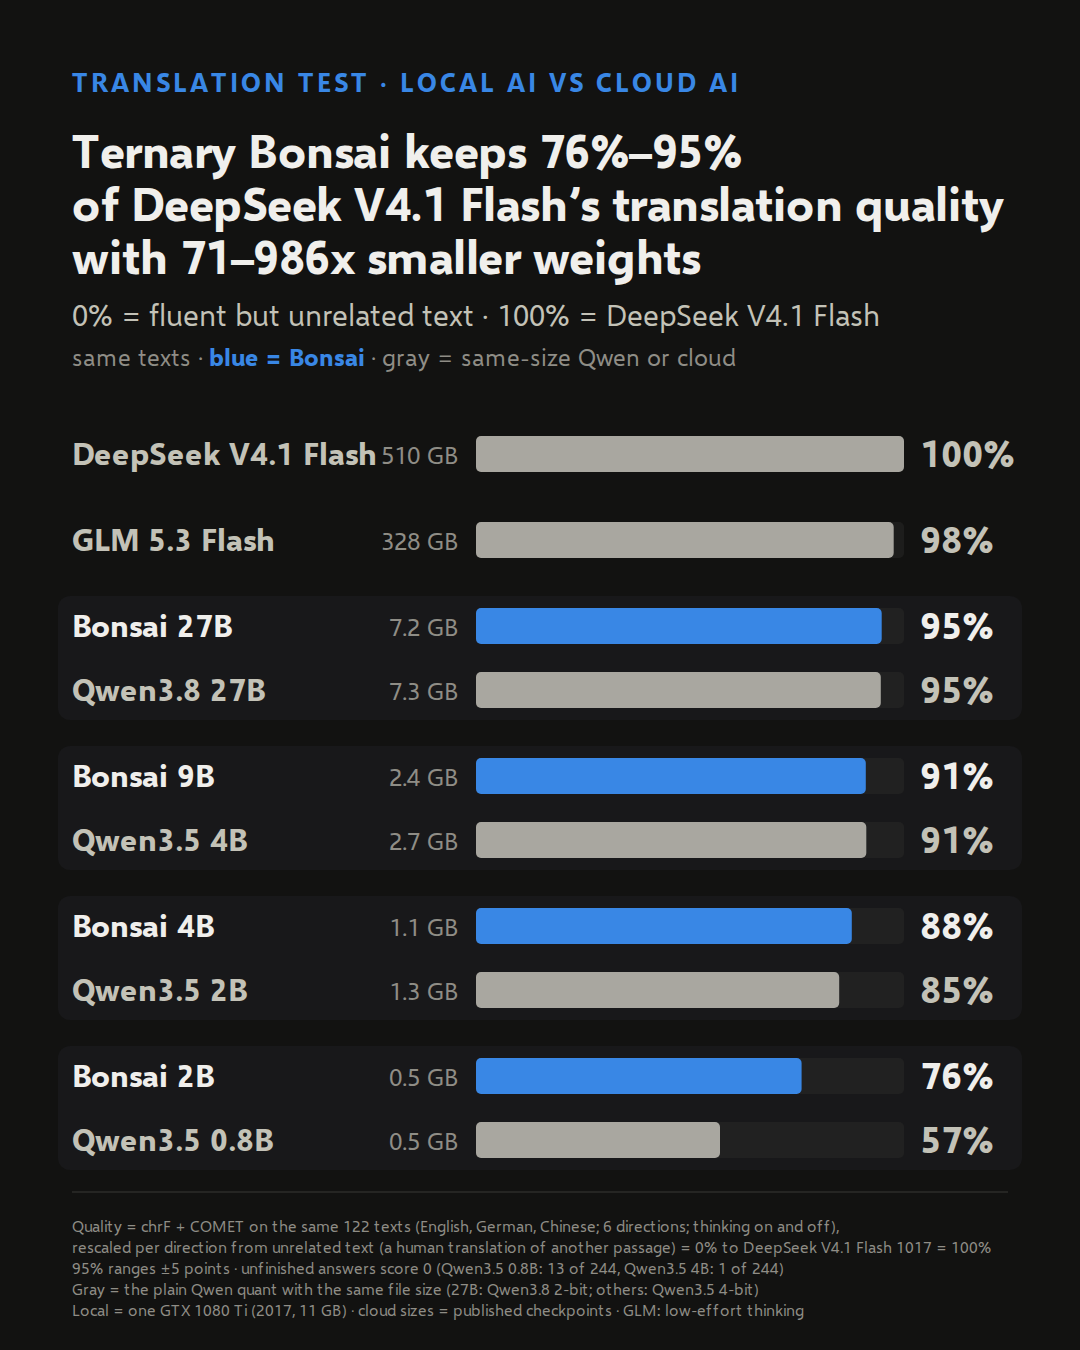
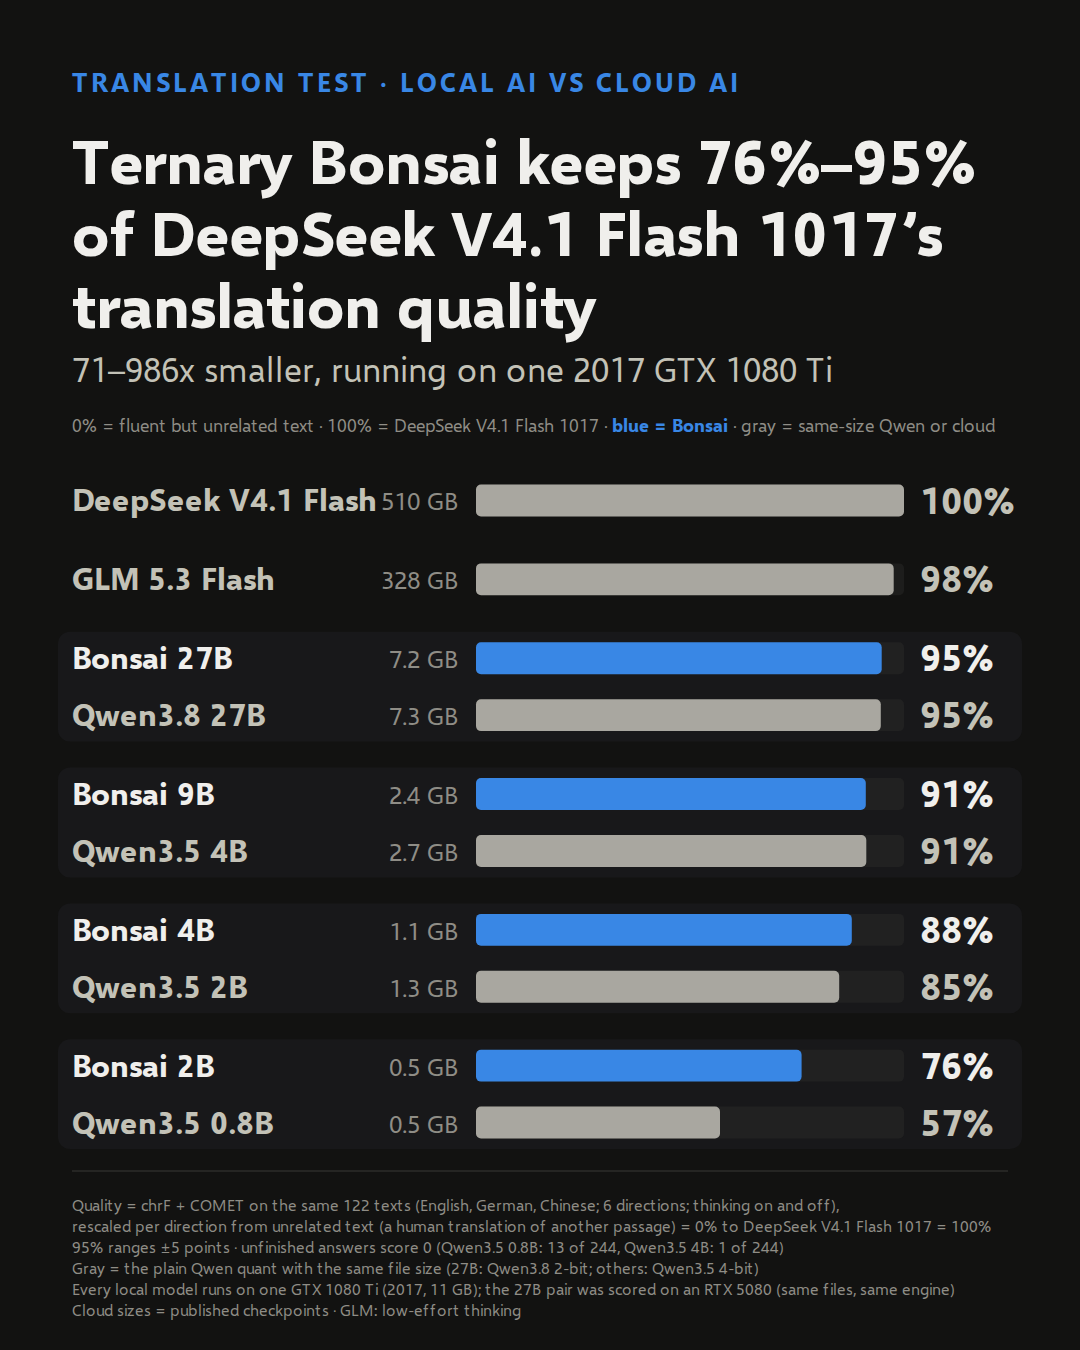
update bonsai2 translation pages

diff --git a/bonsai2-translation/index.html b/bonsai2-translation/index.html
@@ -1,7 +1,7 @@
 <!doctype html>
 <html lang="en"><head><meta charset="utf-8"><meta name="robots" content="noindex, nofollow"><meta name="viewport" content="width=device-width,initial-scale=1">
 <meta name="color-scheme" content="dark">
-<title>Ternary Bonsai keeps 76%–95% of DeepSeek V4.1 Flash’s translation quality with 71–986x smaller weights</title><style>
+<title>Ternary Bonsai keeps 76%–95% of DeepSeek V4.1 Flash 1017’s translation quality, 71–986x smaller, running on one 2017 GTX 1080 Ti</title><style>
 @font-face{font-family:CardSans;src:url(fonts/selawk.ttf) format("truetype");font-weight:100 500}
 @font-face{font-family:CardSans;src:url(fonts/selawkb.ttf) format("truetype");font-weight:600 900}
 html,body{margin:0;background:#0b0b0a;color:#f0efec;font:15px/1.5 system-ui,-apple-system,"Segoe UI",sans-serif}
@@ -17,95 +17,96 @@ svg.card{display:block;width:100%;height:auto;border-radius:14px}
 </style></head>
 <body><main><nav class="nav" aria-label="Report pages"><span aria-current="page">Holistic</span><a href="details.html">Paired differences</a></nav>
 <svg class="card" viewBox="0 0 1080 1350" width="1080" height="1350" xmlns="http://www.w3.org/2000/svg" role="img" aria-labelledby="card-t card-d" font-family="'Segoe UI','CardSans',sans-serif">
-<title id="card-t">Ternary Bonsai keeps 76%–95% of DeepSeek V4.1 Flash’s translation quality with 71–986x smaller weights</title>
+<title id="card-t">Ternary Bonsai keeps 76%–95% of DeepSeek V4.1 Flash 1017’s translation quality, 71–986x smaller, running on one 2017 GTX 1080 Ti</title>
 <desc id="card-d">Translation quality (chrF and COMET) from unrelated text = 0% to DeepSeek V4.1 Flash 1017 (510 GB) = 100% on the same texts, each Bonsai beside the plain Qwen of the same file size: DeepSeek V4.1 Flash 1017 (510 GB) 100%, GLM 5.3 Flash (328 GB) 98% (95% range 97% to 99%), Bonsai 27B (7.2 GB) 95% (95% range 93% to 96%), Qwen3.8 27B (7.3 GB) 95% (95% range 92% to 96%), Bonsai 9B (2.4 GB) 91% (95% range 90% to 93%), Qwen3.5 4B (2.7 GB) 91% (95% range 89% to 93%), Bonsai 4B (1.1 GB) 88% (95% range 86% to 90%), Qwen3.5 2B (1.3 GB) 85% (95% range 83% to 87%), Bonsai 2B (0.5 GB) 76% (95% range 74% to 78%), Qwen3.5 0.8B (0.5 GB) 57% (95% range 52% to 62%).</desc>
 <rect width="1080" height="1350" fill="#121211"/>
 <text x="72" y="92" fill="#3987e5" font-size="26" font-weight="700" letter-spacing="3">TRANSLATION TEST · LOCAL AI VS CLOUD AI</text>
-<text x="72" y="168" fill="#f0efec" font-size="46" font-weight="700" letter-spacing="-0.5">Ternary Bonsai keeps 76%–95%</text>
-<text x="72" y="221" fill="#f0efec" font-size="46" font-weight="700" letter-spacing="-0.5">of DeepSeek V4.1 Flash’s translation quality</text>
-<text x="72" y="274" fill="#f0efec" font-size="46" font-weight="700" letter-spacing="-0.5">with 71–986x smaller weights</text>
-<text x="72" y="326" fill="#c3c2b7" font-size="30">0% = fluent but unrelated text · 100% = DeepSeek V4.1 Flash</text>
-<text x="72" y="366" fill="#8f8d86" font-size="24">same texts · <tspan fill="#3987e5" font-weight="700">blue = Bonsai</tspan> · gray = same-size Qwen or cloud</text>
+<text x="72" y="184" fill="#f0efec" font-size="62" font-weight="700" letter-spacing="-0.5">Ternary Bonsai keeps 76%–95%</text>
+<text x="72" y="256" fill="#f0efec" font-size="62" font-weight="700" letter-spacing="-0.5">of DeepSeek V4.1 Flash 1017’s</text>
+<text x="72" y="328" fill="#f0efec" font-size="62" font-weight="700" letter-spacing="-0.5">translation quality</text>
+<text x="72" y="382" fill="#c3c2b7" font-size="34">71–986x smaller, running on one 2017 GTX 1080 Ti</text>
+<text x="72" y="432" fill="#8f8d86" font-size="18">0% = fluent but unrelated text · 100% = DeepSeek V4.1 Flash 1017 · <tspan fill="#3987e5" font-weight="700">blue = Bonsai</tspan> · gray = same-size Qwen or cloud</text>
 <g><title>DeepSeek V4.1 Flash, 510 GB: the reference (100%)</title>
-<text x="72" y="465.0" fill="#c3c2b7" font-size="31" font-weight="700">DeepSeek V4.1 Flash</text>
-<text x="458" y="464.0" fill="#8f8d86" font-size="25" text-anchor="end">510 GB</text>
-<rect x="476" y="436.1" width="428" height="35.8" rx="5" fill="#2c2c2a" fill-opacity=".45"/>
-<rect x="476" y="436.1" width="428.0" height="35.8" rx="5" fill="#a9a7a0"/>
-<text x="920" y="467.0" fill="#c3c2b7" font-size="37" font-weight="700">100%</text>
+<text x="72" y="511.4" fill="#c3c2b7" font-size="31" font-weight="700">DeepSeek V4.1 Flash</text>
+<text x="458" y="510.4" fill="#8f8d86" font-size="25" text-anchor="end">510 GB</text>
+<rect x="476" y="484.5" width="428" height="31.9" rx="5" fill="#2c2c2a" fill-opacity=".45"/>
+<rect x="476" y="484.5" width="428.0" height="31.9" rx="5" fill="#a9a7a0"/>
+<text x="920" y="513.5" fill="#c3c2b7" font-size="37" font-weight="700">100%</text>
 </g>
 <g><title>GLM 5.3 Flash, 328 GB: 98% of the way from unrelated text to DeepSeek V4.1 Flash 1017 (95% range 97% to 99%)</title>
-<text x="72" y="551.0" fill="#c3c2b7" font-size="31" font-weight="700">GLM 5.3 Flash</text>
-<text x="458" y="550.0" fill="#8f8d86" font-size="25" text-anchor="end">328 GB</text>
-<rect x="476" y="522.1" width="428" height="35.8" rx="5" fill="#2c2c2a" fill-opacity=".45"/>
-<rect x="476" y="522.1" width="417.7" height="35.8" rx="5" fill="#a9a7a0"/>
-<text x="920" y="553.0" fill="#c3c2b7" font-size="37" font-weight="700">98%</text>
+<text x="72" y="590.4" fill="#c3c2b7" font-size="31" font-weight="700">GLM 5.3 Flash</text>
+<text x="458" y="589.4" fill="#8f8d86" font-size="25" text-anchor="end">328 GB</text>
+<rect x="476" y="563.4" width="428" height="31.9" rx="5" fill="#2c2c2a" fill-opacity=".45"/>
+<rect x="476" y="563.4" width="417.7" height="31.9" rx="5" fill="#a9a7a0"/>
+<text x="920" y="592.4" fill="#c3c2b7" font-size="37" font-weight="700">98%</text>
 </g>
-<rect x="58" y="596.0" width="964" height="124.0" rx="12" fill="#18181a"/>
+<rect x="58" y="631.8" width="964" height="109.8" rx="12" fill="#18181a"/>
 <g><title>Bonsai 27B, 7.2 GB: 95% of the way from unrelated text to DeepSeek V4.1 Flash 1017 (95% range 93% to 96%)</title>
-<text x="72" y="637.0" fill="#f0efec" font-size="31" font-weight="700">Bonsai 27B</text>
-<text x="458" y="636.0" fill="#8f8d86" font-size="25" text-anchor="end">7.2 GB</text>
-<rect x="476" y="608.1" width="428" height="35.8" rx="5" fill="#2c2c2a" fill-opacity=".45"/>
-<rect x="476" y="608.1" width="405.7" height="35.8" rx="5" fill="#3987e5"/>
-<text x="920" y="639.0" fill="#f0efec" font-size="37" font-weight="700">95%</text>
+<text x="72" y="669.2" fill="#f0efec" font-size="31" font-weight="700">Bonsai 27B</text>
+<text x="458" y="668.2" fill="#8f8d86" font-size="25" text-anchor="end">7.2 GB</text>
+<rect x="476" y="642.3" width="428" height="31.9" rx="5" fill="#2c2c2a" fill-opacity=".45"/>
+<rect x="476" y="642.3" width="405.7" height="31.9" rx="5" fill="#3987e5"/>
+<text x="920" y="671.2" fill="#f0efec" font-size="37" font-weight="700">95%</text>
 </g>
 <g><title>Qwen3.8 27B, 7.3 GB: 95% of the way from unrelated text to DeepSeek V4.1 Flash 1017 (95% range 92% to 96%)</title>
-<text x="72" y="701.0" fill="#c3c2b7" font-size="31" font-weight="700">Qwen3.8 27B</text>
-<text x="458" y="700.0" fill="#8f8d86" font-size="25" text-anchor="end">7.3 GB</text>
-<rect x="476" y="672.1" width="428" height="35.8" rx="5" fill="#2c2c2a" fill-opacity=".45"/>
-<rect x="476" y="672.1" width="404.8" height="35.8" rx="5" fill="#a9a7a0"/>
-<text x="920" y="703.0" fill="#c3c2b7" font-size="37" font-weight="700">95%</text>
+<text x="72" y="726.1" fill="#c3c2b7" font-size="31" font-weight="700">Qwen3.8 27B</text>
+<text x="458" y="725.1" fill="#8f8d86" font-size="25" text-anchor="end">7.3 GB</text>
+<rect x="476" y="699.2" width="428" height="31.9" rx="5" fill="#2c2c2a" fill-opacity=".45"/>
+<rect x="476" y="699.2" width="404.8" height="31.9" rx="5" fill="#a9a7a0"/>
+<text x="920" y="728.1" fill="#c3c2b7" font-size="37" font-weight="700">95%</text>
 </g>
-<rect x="58" y="746.0" width="964" height="124.0" rx="12" fill="#18181a"/>
+<rect x="58" y="767.6" width="964" height="109.8" rx="12" fill="#18181a"/>
 <g><title>Bonsai 9B, 2.4 GB: 91% of the way from unrelated text to DeepSeek V4.1 Flash 1017 (95% range 90% to 93%)</title>
-<text x="72" y="787.0" fill="#f0efec" font-size="31" font-weight="700">Bonsai 9B</text>
-<text x="458" y="786.0" fill="#8f8d86" font-size="25" text-anchor="end">2.4 GB</text>
-<rect x="476" y="758.1" width="428" height="35.8" rx="5" fill="#2c2c2a" fill-opacity=".45"/>
-<rect x="476" y="758.1" width="389.8" height="35.8" rx="5" fill="#3987e5"/>
-<text x="920" y="789.0" fill="#f0efec" font-size="37" font-weight="700">91%</text>
+<text x="72" y="805.0" fill="#f0efec" font-size="31" font-weight="700">Bonsai 9B</text>
+<text x="458" y="804.0" fill="#8f8d86" font-size="25" text-anchor="end">2.4 GB</text>
+<rect x="476" y="778.1" width="428" height="31.9" rx="5" fill="#2c2c2a" fill-opacity=".45"/>
+<rect x="476" y="778.1" width="389.8" height="31.9" rx="5" fill="#3987e5"/>
+<text x="920" y="807.0" fill="#f0efec" font-size="37" font-weight="700">91%</text>
 </g>
 <g><title>Qwen3.5 4B, 2.7 GB: 91% of the way from unrelated text to DeepSeek V4.1 Flash 1017 (95% range 89% to 93%)</title>
-<text x="72" y="851.0" fill="#c3c2b7" font-size="31" font-weight="700">Qwen3.5 4B</text>
-<text x="458" y="850.0" fill="#8f8d86" font-size="25" text-anchor="end">2.7 GB</text>
-<rect x="476" y="822.1" width="428" height="35.8" rx="5" fill="#2c2c2a" fill-opacity=".45"/>
-<rect x="476" y="822.1" width="390.3" height="35.8" rx="5" fill="#a9a7a0"/>
-<text x="920" y="853.0" fill="#c3c2b7" font-size="37" font-weight="700">91%</text>
+<text x="72" y="861.9" fill="#c3c2b7" font-size="31" font-weight="700">Qwen3.5 4B</text>
+<text x="458" y="860.9" fill="#8f8d86" font-size="25" text-anchor="end">2.7 GB</text>
+<rect x="476" y="835.0" width="428" height="31.9" rx="5" fill="#2c2c2a" fill-opacity=".45"/>
+<rect x="476" y="835.0" width="390.3" height="31.9" rx="5" fill="#a9a7a0"/>
+<text x="920" y="863.9" fill="#c3c2b7" font-size="37" font-weight="700">91%</text>
 </g>
-<rect x="58" y="896.0" width="964" height="124.0" rx="12" fill="#18181a"/>
+<rect x="58" y="903.4" width="964" height="109.8" rx="12" fill="#18181a"/>
 <g><title>Bonsai 4B, 1.1 GB: 88% of the way from unrelated text to DeepSeek V4.1 Flash 1017 (95% range 86% to 90%)</title>
-<text x="72" y="937.0" fill="#f0efec" font-size="31" font-weight="700">Bonsai 4B</text>
-<text x="458" y="936.0" fill="#8f8d86" font-size="25" text-anchor="end">1.1 GB</text>
-<rect x="476" y="908.1" width="428" height="35.8" rx="5" fill="#2c2c2a" fill-opacity=".45"/>
-<rect x="476" y="908.1" width="375.8" height="35.8" rx="5" fill="#3987e5"/>
-<text x="920" y="939.0" fill="#f0efec" font-size="37" font-weight="700">88%</text>
+<text x="72" y="940.8" fill="#f0efec" font-size="31" font-weight="700">Bonsai 4B</text>
+<text x="458" y="939.8" fill="#8f8d86" font-size="25" text-anchor="end">1.1 GB</text>
+<rect x="476" y="913.9" width="428" height="31.9" rx="5" fill="#2c2c2a" fill-opacity=".45"/>
+<rect x="476" y="913.9" width="375.8" height="31.9" rx="5" fill="#3987e5"/>
+<text x="920" y="942.8" fill="#f0efec" font-size="37" font-weight="700">88%</text>
 </g>
 <g><title>Qwen3.5 2B, 1.3 GB: 85% of the way from unrelated text to DeepSeek V4.1 Flash 1017 (95% range 83% to 87%)</title>
-<text x="72" y="1001.0" fill="#c3c2b7" font-size="31" font-weight="700">Qwen3.5 2B</text>
-<text x="458" y="1000.0" fill="#8f8d86" font-size="25" text-anchor="end">1.3 GB</text>
-<rect x="476" y="972.1" width="428" height="35.8" rx="5" fill="#2c2c2a" fill-opacity=".45"/>
-<rect x="476" y="972.1" width="363.2" height="35.8" rx="5" fill="#a9a7a0"/>
-<text x="920" y="1003.0" fill="#c3c2b7" font-size="37" font-weight="700">85%</text>
+<text x="72" y="997.7" fill="#c3c2b7" font-size="31" font-weight="700">Qwen3.5 2B</text>
+<text x="458" y="996.7" fill="#8f8d86" font-size="25" text-anchor="end">1.3 GB</text>
+<rect x="476" y="970.8" width="428" height="31.9" rx="5" fill="#2c2c2a" fill-opacity=".45"/>
+<rect x="476" y="970.8" width="363.2" height="31.9" rx="5" fill="#a9a7a0"/>
+<text x="920" y="999.7" fill="#c3c2b7" font-size="37" font-weight="700">85%</text>
 </g>
-<rect x="58" y="1046.0" width="964" height="124.0" rx="12" fill="#18181a"/>
+<rect x="58" y="1039.2" width="964" height="109.8" rx="12" fill="#18181a"/>
 <g><title>Bonsai 2B, 0.5 GB: 76% of the way from unrelated text to DeepSeek V4.1 Flash 1017 (95% range 74% to 78%)</title>
-<text x="72" y="1087.0" fill="#f0efec" font-size="31" font-weight="700">Bonsai 2B</text>
-<text x="458" y="1086.0" fill="#8f8d86" font-size="25" text-anchor="end">0.5 GB</text>
-<rect x="476" y="1058.1" width="428" height="35.8" rx="5" fill="#2c2c2a" fill-opacity=".45"/>
-<rect x="476" y="1058.1" width="325.6" height="35.8" rx="5" fill="#3987e5"/>
-<text x="920" y="1089.0" fill="#f0efec" font-size="37" font-weight="700">76%</text>
+<text x="72" y="1076.6" fill="#f0efec" font-size="31" font-weight="700">Bonsai 2B</text>
+<text x="458" y="1075.6" fill="#8f8d86" font-size="25" text-anchor="end">0.5 GB</text>
+<rect x="476" y="1049.7" width="428" height="31.9" rx="5" fill="#2c2c2a" fill-opacity=".45"/>
+<rect x="476" y="1049.7" width="325.6" height="31.9" rx="5" fill="#3987e5"/>
+<text x="920" y="1078.6" fill="#f0efec" font-size="37" font-weight="700">76%</text>
 </g>
 <g><title>Qwen3.5 0.8B, 0.5 GB: 57% of the way from unrelated text to DeepSeek V4.1 Flash 1017 (95% range 52% to 62%)</title>
-<text x="72" y="1151.0" fill="#c3c2b7" font-size="31" font-weight="700">Qwen3.5 0.8B</text>
-<text x="458" y="1150.0" fill="#8f8d86" font-size="25" text-anchor="end">0.5 GB</text>
-<rect x="476" y="1122.1" width="428" height="35.8" rx="5" fill="#2c2c2a" fill-opacity=".45"/>
-<rect x="476" y="1122.1" width="244.0" height="35.8" rx="5" fill="#a9a7a0"/>
-<text x="920" y="1153.0" fill="#c3c2b7" font-size="37" font-weight="700">57%</text>
+<text x="72" y="1133.5" fill="#c3c2b7" font-size="31" font-weight="700">Qwen3.5 0.8B</text>
+<text x="458" y="1132.5" fill="#8f8d86" font-size="25" text-anchor="end">0.5 GB</text>
+<rect x="476" y="1106.6" width="428" height="31.9" rx="5" fill="#2c2c2a" fill-opacity=".45"/>
+<rect x="476" y="1106.6" width="244.0" height="31.9" rx="5" fill="#a9a7a0"/>
+<text x="920" y="1135.5" fill="#c3c2b7" font-size="37" font-weight="700">57%</text>
 </g>
-<line x1="72" x2="1008" y1="1192" y2="1192" stroke="#2c2c2a" stroke-width="1.5"/>
-<text x="72" y="1232" fill="#8f8d86" font-size="16">Quality = chrF + COMET on the same 122 texts (English, German, Chinese; 6 directions; thinking on and off),</text>
-<text x="72" y="1253" fill="#8f8d86" font-size="16">rescaled per direction from unrelated text (a human translation of another passage) = 0% to DeepSeek V4.1 Flash 1017 = 100%</text>
-<text x="72" y="1274" fill="#8f8d86" font-size="16">95% ranges ±5 points · unfinished answers score 0 (Qwen3.5 0.8B: 13 of 244, Qwen3.5 4B: 1 of 244)</text>
-<text x="72" y="1295" fill="#8f8d86" font-size="16">Gray = the plain Qwen quant with the same file size (27B: Qwen3.8 2-bit; others: Qwen3.5 4-bit)</text>
-<text x="72" y="1316" fill="#8f8d86" font-size="16">Local = one GTX 1080 Ti (2017, 11 GB) · cloud sizes = published checkpoints · GLM: low-effort thinking</text>
+<line x1="72" x2="1008" y1="1171" y2="1171" stroke="#2c2c2a" stroke-width="1.5"/>
+<text x="72" y="1211" fill="#8f8d86" font-size="16">Quality = chrF + COMET on the same 122 texts (English, German, Chinese; 6 directions; thinking on and off),</text>
+<text x="72" y="1232" fill="#8f8d86" font-size="16">rescaled per direction from unrelated text (a human translation of another passage) = 0% to DeepSeek V4.1 Flash 1017 = 100%</text>
+<text x="72" y="1253" fill="#8f8d86" font-size="16">95% ranges ±5 points · unfinished answers score 0 (Qwen3.5 0.8B: 13 of 244, Qwen3.5 4B: 1 of 244)</text>
+<text x="72" y="1274" fill="#8f8d86" font-size="16">Gray = the plain Qwen quant with the same file size (27B: Qwen3.8 2-bit; others: Qwen3.5 4-bit)</text>
+<text x="72" y="1295" fill="#8f8d86" font-size="16">Every local model runs on one GTX 1080 Ti (2017, 11 GB); the 27B pair was scored on an RTX 5080 (same files, same engine)</text>
+<text x="72" y="1316" fill="#8f8d86" font-size="16">Cloud sizes = published checkpoints · GLM: low-effort thinking</text>
 </svg>
 <div class="links"><a href="details.html">Full analysis →</a><a href="holistic.png" download>Download image</a></div>
 </main></body></html>
